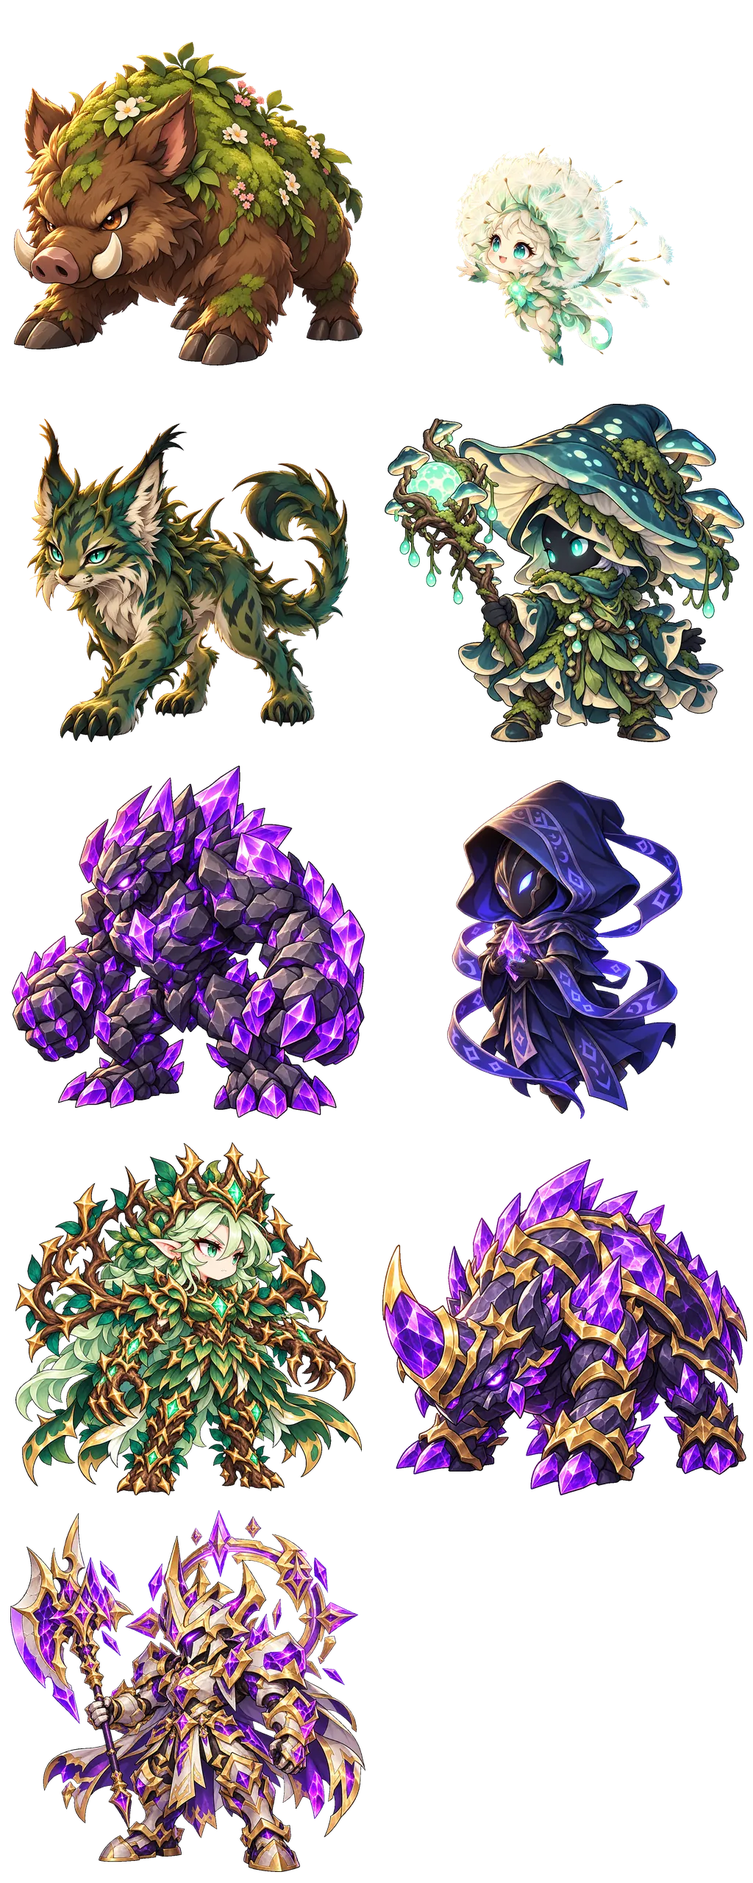
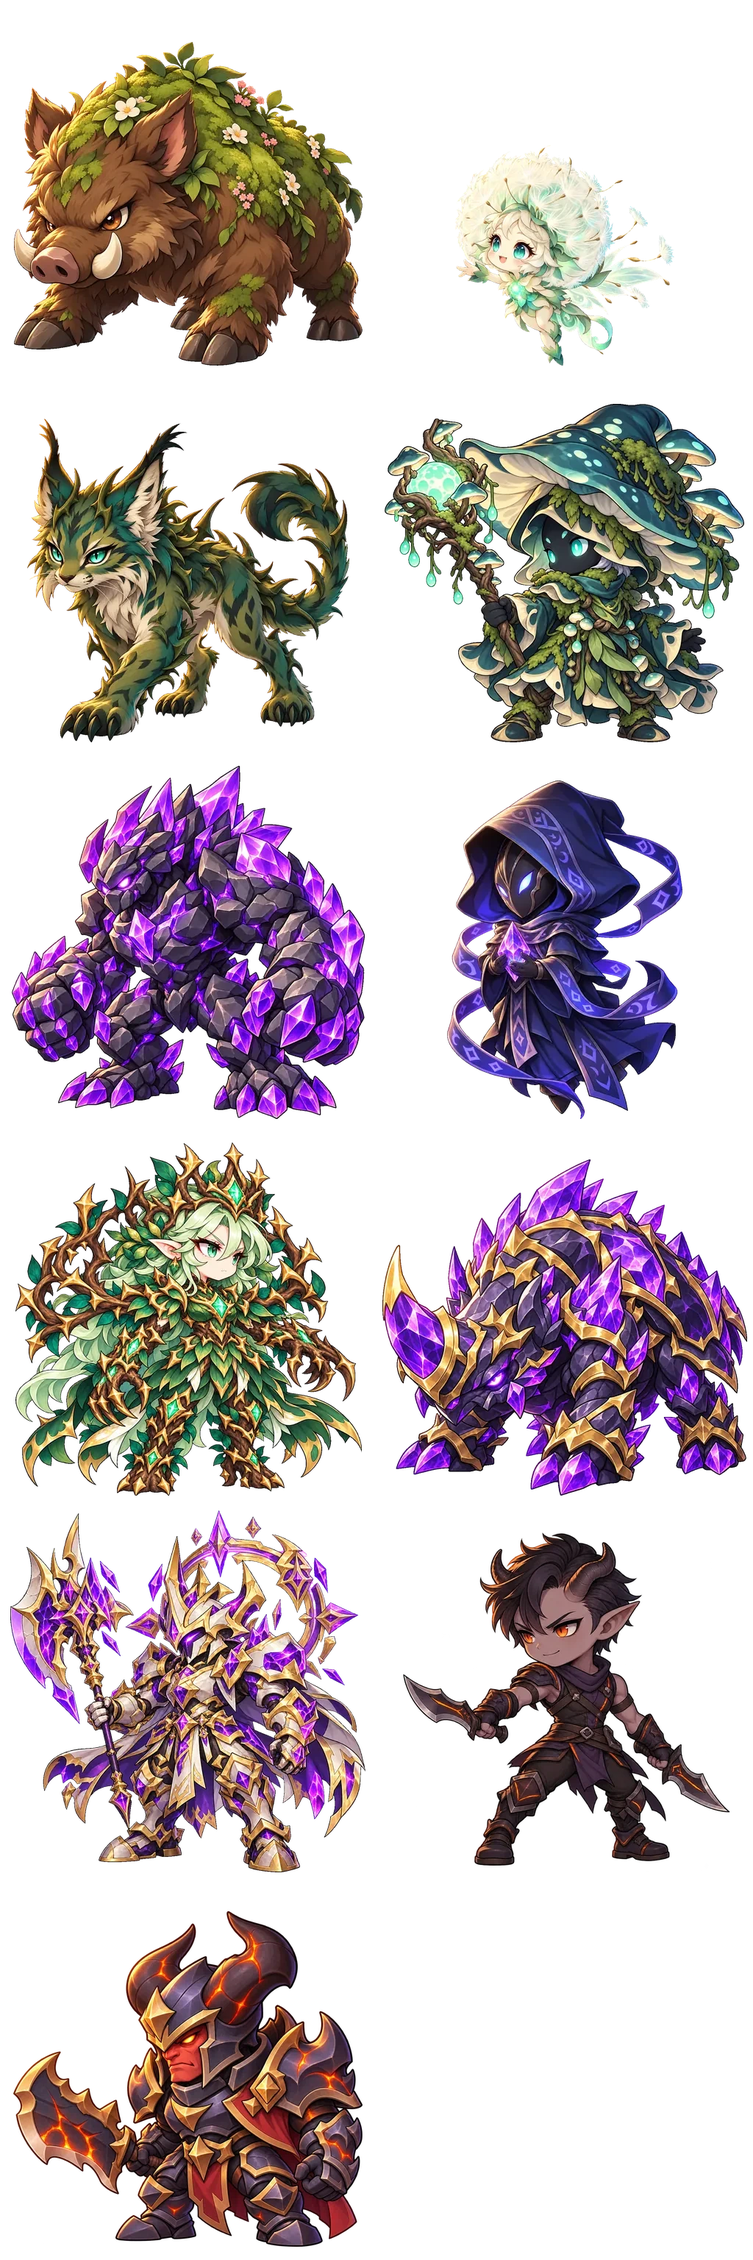
Map-1 boss art in battle; Codex art queue 13-19 (owner approved)
ART-CHAR-BOSS-RUINS-001: the Vargoth Hunter and Vanguard Captain frames
join the foes atlases as frames 9 and 10 (6 rows now) and the first-clash
and vanguard-captain foes use them instead of the fallback frames.
Presentation only; no rule or encounter-version change.

The art queue gains copy-ready Codex prompts for every remaining gap the
owner approved: eight new foes for 4v4 battles (incl. the two still
without art), map 2/3 battle backdrops, a painted Attack icon, the forest
tile set, chapter-1 boss and pet production frames from the approved
concepts, and Execute/Ward FX after the Bolt review.

Claude-Session: https://claude.ai/code/session_01HWZpmTxjpZcrXb3B6ixFxR

diff --git a/src/game/visuals/assets.ts b/src/game/visuals/assets.ts
@@ -2,10 +2,10 @@ import type { EncounterDefinition } from '../../core/battle/types';
 
 // Each actor's full-body frame and portrait live in a 2-column atlas of 512 px cells:
 // the original cast in `units`/`portraits` (3 rows), mercenaries in `units_mercs`/`portraits_mercs`
-// (3 rows) and the Veil Frontier foes in `units_foes`/`portraits_foes` (5 rows), all from
-// ART-CHAR-MERC-ENEMY-001 except the original cast. Unit and portrait atlases share frame order.
+// (3 rows) and the Veil Frontier foes in `units_foes`/`portraits_foes` (6 rows), all from
+// ART-CHAR-MERC-ENEMY-001 except the original cast; foes frames 9–10 are the map-1 boss pair (ART-CHAR-BOSS-RUINS-001). Unit and portrait atlases share frame order.
 export type ArtSheet = 'units' | 'mercs' | 'foes';
-export const sheetRows: Readonly<Record<ArtSheet, number>> = { units: 3, mercs: 3, foes: 5 };
+export const sheetRows: Readonly<Record<ArtSheet, number>> = { units: 3, mercs: 3, foes: 6 };
 export const actorArt: Readonly<Record<string, { sheet: ArtSheet; frame: number }>> = {
   guardian: { sheet: 'units', frame: 0 }, tracer: { sheet: 'units', frame: 1 }, weaver: { sheet: 'units', frame: 2 },
   healer: { sheet: 'units', frame: 3 }, raider: { sheet: 'units', frame: 4 }, brute: { sheet: 'units', frame: 5 },
@@ -14,6 +14,7 @@ export const actorArt: Readonly<Record<string, { sheet: ArtSheet; frame: number 
   foe_tusker: { sheet: 'foes', frame: 0 }, foe_sprite: { sheet: 'foes', frame: 1 }, foe_stalker: { sheet: 'foes', frame: 2 },
   foe_mycon: { sheet: 'foes', frame: 3 }, foe_golem: { sheet: 'foes', frame: 4 }, foe_riftweaver: { sheet: 'foes', frame: 5 },
   foe_matriarch: { sheet: 'foes', frame: 6 }, foe_juggernaut: { sheet: 'foes', frame: 7 }, foe_sentinel: { sheet: 'foes', frame: 8 },
+  foe_hunter: { sheet: 'foes', frame: 9 }, foe_captain: { sheet: 'foes', frame: 10 },
 };
 // Enemy ids are field positions (`raider` back, `brute` front/large); `art` picks the illustration.
 // Frames drawn facing the wrong way for their side (party faces right, enemies face left, ART-PLACEMENT-RULES):

diff --git a/src/content/encounters/catalog.ts b/src/content/encounters/catalog.ts
@@ -42,7 +42,7 @@ export const firstClash: EncounterDefinition = {
   // The prologue fight: Vargoth's vanguard attacks the ruined frontier fort as the commander wakes (lore 2026-10-16).
   ...veilSiege, id: 'first-clash', version: 12, level: 1, name: 'กองหน้าของวาร์กอธ',
   enemies: [
-    { id: 'raider', speed: 110, name: 'Vargoth Hunter', displayName: 'นักล่าเผ่าอสูร', maxHp: 56, color: 0xee80bd },
+    { id: 'raider', speed: 110, name: 'Vargoth Hunter', displayName: 'นักล่าเผ่าอสูร', maxHp: 56, color: 0xee80bd, art: 'foe_hunter' },
     { id: 'brute', speed: 70, name: 'Vargoth Guard', displayName: 'องครักษ์อสูร', maxHp: 100, color: 0x9785f2 },
   ],
   intents: [
@@ -177,8 +177,8 @@ export const miniVeilGolem: EncounterDefinition = {
 export const vanguardCaptain: EncounterDefinition = {
   ...veilSiege, id: 'vanguard-captain', version: 1, level: 3, name: 'หัวหน้ากองหน้าของวาร์กอธ',
   enemies: [
-    { id: 'raider', speed: 110, name: 'Vargoth Hunter', displayName: 'นักล่าเผ่าอสูร', maxHp: 60, color: 0xee80bd },
-    { id: 'brute', speed: 70, name: 'Vanguard Captain', displayName: 'หัวหน้ากองหน้า', maxHp: 170, color: 0x9785f2 },
+    { id: 'raider', speed: 110, name: 'Vargoth Hunter', displayName: 'นักล่าเผ่าอสูร', maxHp: 60, color: 0xee80bd, art: 'foe_hunter' },
+    { id: 'brute', speed: 70, name: 'Vanguard Captain', displayName: 'หัวหน้ากองหน้า', maxHp: 170, color: 0x9785f2, art: 'foe_captain' },
   ],
   intents: [
     { sourceId: 'raider', targetSlot: 2, name: 'Raking Slash', damage: 11, kind: 'physical' },

diff --git a/docs/handoffs/CODEX-ART-QUEUE-TH.md b/docs/handoffs/CODEX-ART-QUEUE-TH.md
@@ -8,16 +8,23 @@
 | 2 | ART-VFX-BOLT-001 ภาพชั้นเอฟเฟกต์ Bolt | A8 FX | ได้รับ 2026-10-22 ยังไม่ใส่ในเกม (รอเจ้าของดูคลิป Bolt) |
 | 3 | ART-SKILL-ICON-001 ไอคอนสกิลแบบวาด 30 สกิล | A6 ต้นไม้, A7 | รอบแก้ 3R ได้รับและเจ้าของอนุมัติ 2026-10-22 ใช้ในเกมแล้ว |
 | 4 | ART-UI-ICONS-002 ไอคอนค่าสถานะและแท็บ | A7 | ได้รับแล้วและใช้ในเกมแล้ว 2026-10-22 |
-| 5 | ART-CHAR-BOSS-RUINS-001 บอสแมพ 1 | A แมพ 1 | ได้รับ 2026-10-22 รอเจ้าของดู แล้วใส่ในเกม |
+| 5 | ART-CHAR-BOSS-RUINS-001 บอสแมพ 1 | A แมพ 1 | เจ้าของอนุมัติ ใส่ในเกมแล้ว 2026-10-22 |
 | 6 | ART-UI-PROGRESS-001 ไอคอนตำรา แก่นรอยแยก เศษดาว เหรียญเกียรติยศ กรอบดาวชะตา | A6, B | ได้รับ 2026-10-22 รอระบบตำรา/ดาวชะตา |
-| 7 | ART-WORLD-KEYART-001 ภาพหลักแผนที่ 2 และ 4–10 (concept) | A5, B, C | ได้รับ 2026-10-22 concept รอเจ้าของเลือก |
-| 8 | ART-CHAR-BOSS-CH1-001 concept บอสบทที่ 1 | B, C | ได้รับ 2026-10-22 concept รอเจ้าของเลือก |
-| 9 | ART-PET-001 concept สัตว์เลี้ยง 6 ชนิด | B | ได้รับ 2026-10-22 concept รอเจ้าของเลือก |
+| 7 | ART-WORLD-KEYART-001 ภาพหลักแผนที่ 2 และ 4–10 (concept) | A5, B, C | concept อนุมัติ 2026-10-22 → ทำต่อข้อ 14, 16 |
+| 8 | ART-CHAR-BOSS-CH1-001 concept บอสบทที่ 1 | B, C | concept อนุมัติ 2026-10-22 → ภาพจริงข้อ 17 |
+| 9 | ART-PET-001 concept สัตว์เลี้ยง 6 ชนิด | B | concept อนุมัติ 2026-10-22 → ภาพจริงข้อ 18 |
 | 10 | ART-UI-RUNE-001 ไอคอนรูน 12 แบบ | B | ยังไม่ได้รับ |
 | 11 | ART-CHAR-RIVAL-001 ผู้บัญชาการคู่แข่งลานประลอง 6 คน | B PvP | ยังไม่ได้รับ |
 | 12 | ART-WORLD-TOWER-001 หอคอยแห่งชะตา (ฉากต่อสู้ + ไอคอนชั้น) | C | ยังไม่ได้รับ (เริ่มได้แล้ว ข้อ 1 เสร็จ) |
+| 13 | ART-CHAR-FOES-002 ศัตรูชุดใหม่ 8 ตัวสำหรับศึก 4 ต่อ 4 (รวมองครักษ์อสูร อสูรส่งพลัง) | A7 ขั้นที่ 2 | ทันที (เจ้าของอนุมัติ 2026-10-22) |
+| 14 | ART-WORLD-BATTLE-BG-001 ฉากหลังศึกแมพ 2 ป่าทึบ และแมพ 3 แนวรอยแยก | A | ทันที |
+| 15 | ART-SKILL-ICON-002 ไอคอนวาด "โจมตี" | A7 | ทันที |
+| 16 | ART-WORLD-TILES-002 ชุดช่องแผนที่ป่าทึบ (แมพ 2) จาก concept ที่อนุมัติ | A | ทันที |
+| 17 | ART-CHAR-BOSS-CH1-002 ภาพจริงบอสแมพ 4–10 + วาร์กอธ 2 ร่าง จาก concept ที่อนุมัติ | B, C | ทันที |
+| 18 | ART-PET-002 ภาพจริงสัตว์เลี้ยง 6 ตัว จาก concept ที่อนุมัติ | B | ทันที |
+| 19 | ART-VFX-EXEC-WARD-001 ภาพชั้นเอฟเฟกต์ Execute และ Ward | A8 | หลังเจ้าของตรวจคลิป Bolt |
 
-**งานภาพที่เกมยังขาดแต่ยังไม่มี prompt ในคิว (ตรวจ 2026-10-22):**
+**งานภาพที่เกมยังขาด (ตรวจ 2026-10-22) — เจ้าของอนุมัติให้สั่งทั้งหมด ได้เป็นข้อ 13–19 แล้ว:**
 - ศัตรูที่ยังไม่มีภาพ (ตอนนี้ใช้ภาพสำรอง): องครักษ์อสูร (ศึกแรก), อสูรส่งพลัง (ศึกเงาล่าแนวหลัง)
 - ฉากหลังศึกต่อแมพ: ตอนนี้ทุกแมพใช้ฉากซากปรักหักพังภาพเดียว (ต้องมีป่าทึบ แนวรอยแยก และแมพถัดไป)
 - ศัตรูชุดใหม่สำหรับศึก 4 ต่อ 4 (A7 ขั้นที่ 2) ให้แต่ละแมพมีศัตรูหลากหลายขึ้น
@@ -419,4 +426,152 @@ DELIVERABLES: tower_backdrop.webp (same size and composition rules as ruins.webp
 CONSTRAINTS: original design; the backdrop must not reduce readability of units, HP bars and intents; no text.
 
 RETURN: incoming/ART-WORLD-TOWER-001/
+```
+
+## 13. ART-CHAR-FOES-002 — ศัตรูชุดใหม่สำหรับศึก 4 ต่อ 4
+
+```text
+CODEX HANDOFF — ART-CHAR-FOES-002
+Asterveil · Fateweave: eight new foes for 4-vs-4 battles
+
+Battles are becoming up to 4 heroes vs up to 4 foes (front 2 / back 2, 1–4 foes per encounter). Each map needs more small foes so groups of 3–4 read as different creatures. Two existing foes also have no art yet.
+
+Repository wnau34-nptrn/asterveil-fateweave, base branch feature/fateweave-initial-prototype. Create branch art/art-char-foes-002. Add files only under incoming/ART-CHAR-FOES-002/. Do not change src/, tests/, public/, .github/ or existing art. Open a PR into the base branch; do not merge. Original artwork only; nothing from Asterveil: Rise Beyond. Never use the word ม่านเวล.
+
+READ FIRST: docs/handoffs/ART-PLACEMENT-RULES.md (enemies face LEFT; soles anchored; large foes shown ~1.5x), docs/handoffs/ART-CHAR-MERC-ENEMY-001.md (exact atlas/portrait format and style), public/assets/art/units_foes.webp + portraits_foes.webp (style, scale, line weight), incoming/ART-CHAR-BOSS-RUINS-001/ (latest accepted foes).
+
+FOES (physical-looking foes use physical moves, energy-looking foes energy moves; keep that readable)
+Map 1 ซากชายแดน (ruined frontier fort, Vargoth's demon tribe: violet-black armour, ember-orange cracks):
+ 1. vargoth_guard — องครักษ์อสูร, LARGE front: tower shield + spiked mace, heavy armour (physical).
+ 2. vargoth_shaman — หมอผีเผ่าอสูร, normal back: bone staff, ember flame orb (energy).
+ 3. vargoth_grunt — พลทหารอสูร, normal front: short spear, light armour (physical).
+Map 2 เส้นทางป่าทึบ (forest twisted by the rift: moss, thorns, teal fungus):
+ 4. thorn_beetle — ด้วงหนาม, normal front: armoured beetle with thorn shell (physical).
+ 5. spore_puff — ภูตสปอร์, normal back: floating puffball with teal spores (energy).
+Map 3 แนวรอยแยก (crystal rift scar: violet crystal, star-veil light):
+ 6. rift_channeler — อสูรส่งพลัง, LARGE front: hulking demon with crystal conduits on its back (energy).
+ 7. rift_wisp — วิญญาณรอยแยก, normal back: small violet flame spirit (energy).
+ 8. shard_crawler — แมงมุมเศษผลึก, normal front: crystal-legged crawler (physical).
+
+DELIVERABLES (same format as ART-CHAR-MERC-ENEMY-001): units_foes2.webp (2 columns × 4 rows of 512×512 frames, order as listed, facing LEFT, soles at y=496, transparent) + units_foes2.json (x,y,w,h,footY); portraits_foes2.webp + json (same order, square busts); preview.png: a 390×844 phone composition on public/assets/art/ruins.webp with 4 heroes vs 4 of the new foes (two front, two back, large ones ~1.5x); NOTES.md with per-foe silhouette notes.
+
+CONSTRAINTS: same chibi proportions, outline weight, lighting and saturation as units_foes.webp; no text, no baked shadow; each foe distinct in silhouette at 64 px.
+
+RETURN: incoming/ART-CHAR-FOES-002/
+```
+
+## 14. ART-WORLD-BATTLE-BG-001 — ฉากหลังศึกแยกตามแมพ
+
+```text
+CODEX HANDOFF — ART-WORLD-BATTLE-BG-001
+Asterveil · Fateweave: battle backdrops for map 2 and map 3
+
+Every battle uses one backdrop today (public/assets/art/ruins.webp, 1536×1024). Map 2 เส้นทางป่าทึบ (forest trail twisted by the rift) and map 3 แนวรอยแยก (crystal rift scar) need their own.
+
+Repository wnau34-nptrn/asterveil-fateweave, base branch feature/fateweave-initial-prototype. Create branch art/art-world-battle-bg-001. Add files only under incoming/ART-WORLD-BATTLE-BG-001/. Do not change src/, tests/, public/, .github/ or existing art. Open a PR into the base branch; do not merge. Original artwork only; nothing from Asterveil: Rise Beyond. Never use the word ม่านเวล.
+
+READ FIRST: public/assets/art/ruins.webp (format, camera, horizon height, empty floor area), src/game/visuals/rift-backdrop.ts (how the image is framed around the battle field), incoming/ART-WORLD-KEYART-001/ on art/art-world-keyart-001 (approved palettes; keyart_2 is the forest direction), docs/handoffs/ART-PLACEMENT-RULES.md.
+
+DESIGN: same camera, horizon line and open stone/earth floor band as ruins.webp so 8 actors (4 heroes left, 4 foes right) stand on clear ground with no props behind feet; background interest stays above the horizon and at the edges. Forest: mossy roots, thorn arches, teal fungus light, rift glow far behind. Rift line: violet crystal spires, star-veil sky, cracked glowing floor seams kept dim under actors.
+
+DELIVERABLES: bg_forest.webp, bg_riftline.webp (1536×1024, opaque), preview_<id>.png at 390×844 and 1366×768 with placeholder actor silhouettes, NOTES.md.
+
+CONSTRAINTS: no text/UI/characters baked in; keep floor contrast low enough for HP bars and target rings to read.
+
+RETURN: incoming/ART-WORLD-BATTLE-BG-001/
+```
+
+## 15. ART-SKILL-ICON-002 — ไอคอนวาด "โจมตี"
+
+```text
+CODEX HANDOFF — ART-SKILL-ICON-002
+Asterveil · Fateweave: painted Attack icon
+
+All 33 skills now use the painted icons of ART-SKILL-ICON-001-R1; the shared Attack action is the only line icon left in the battle dock.
+
+Repository wnau34-nptrn/asterveil-fateweave, base branch feature/fateweave-initial-prototype. Create branch art/art-skill-icon-002. Add files only under incoming/ART-SKILL-ICON-002/. Do not change src/, tests/, public/, .github/ or existing art. Open a PR into the base branch; do not merge. Original artwork only; nothing from Asterveil: Rise Beyond. Never use the word ม่านเวล.
+
+READ FIRST: incoming/ART-SKILL-ICON-001-R1/ (style, outline, light, scale rules, preview layout).
+
+DESIGN: attack — one clean steel sword mid-slash with a short white-gold arc; neutral silver/gold so it fits every class row. Same 256×256 RGBA format, motif 190–205 px inside the centred 224 px circle, readable at 40 px normal and under a 61% black cooldown overlay.
+
+DELIVERABLES: png/attack.png, preview.png (40/56/72 px beside guard, mark, bolt, heal), NOTES.md with bounding box.
+
+RETURN: incoming/ART-SKILL-ICON-002/
+```
+
+## 16. ART-WORLD-TILES-002 — ชุดช่องแผนที่ป่าทึบ (แมพ 2)
+
+```text
+CODEX HANDOFF — ART-WORLD-TILES-002
+Asterveil · Fateweave: forest tile set for map 2 from the approved key art
+
+The owner approved the ART-WORLD-KEYART-001 directions. Map 2 เส้นทางป่าทึบ is in the game now but reuses the meadow/thicket tiles.
+
+Repository wnau34-nptrn/asterveil-fateweave, base branch feature/fateweave-initial-prototype. Create branch art/art-world-tiles-002. Add files only under incoming/ART-WORLD-TILES-002/. Do not change src/, tests/, public/, .github/ or existing art. Open a PR into the base branch; do not merge. Original artwork only; nothing from Asterveil: Rise Beyond. Never use the word ม่านเวล.
+
+READ FIRST: docs/handoffs/ART-UI-WORLD-001.md (tile rules), public/assets/world/tileset.webp + src/content/world/tileset.json (128 px tiles: 4 floor variants per zone, camp ground, wall_top/face/inner), public/assets/world/decor.webp + src/content/world/decor.json, incoming/ART-WORLD-KEYART-001/ (keyart_2, landmarks_2, tile_mood_2, palette_2).
+
+DELIVERABLES: tiles_forest.webp + json with forest_0–3 (trail floor), grove_0–3 (deeper floor), forest wall_top/wall_face/wall_inner, all 128×128 seamless; decor_forest.webp + json with 8 transparent props (roots, thorn arch, teal fungus, fallen log, lantern moss, rift-touched stump, fern clump, stone marker); preview.png: a 390×844 phone map composition at runtime scale; NOTES.md.
+
+CONSTRAINTS: same top-down 3/4 camera and lighting as the current tileset; floors lighter than walls so walkable tiles read at a glance; seamless edges.
+
+RETURN: incoming/ART-WORLD-TILES-002/
+```
+
+## 17. ART-CHAR-BOSS-CH1-002 — ภาพจริงบอสบทที่ 1
+
+```text
+CODEX HANDOFF — ART-CHAR-BOSS-CH1-002
+Asterveil · Fateweave: production frames for the approved chapter-1 bosses
+
+The owner approved all ART-CHAR-BOSS-CH1-001 concepts (maps 4–9, Vargoth armoured, Vargoth unleashed).
+
+Repository wnau34-nptrn/asterveil-fateweave, base branch feature/fateweave-initial-prototype. Create branch art/art-char-boss-ch1-002. Add files only under incoming/ART-CHAR-BOSS-CH1-002/. Do not change src/, tests/, public/, .github/ or existing art. Open a PR into the base branch; do not merge. Original artwork only; nothing from Asterveil: Rise Beyond. Never use the word ม่านเวล.
+
+READ FIRST: incoming/ART-CHAR-BOSS-CH1-001/ on art/art-char-boss-ch1-001 (designs to follow exactly), docs/handoffs/ART-CHAR-MERC-ENEMY-001.md (runtime format), docs/handoffs/ART-PLACEMENT-RULES.md (enemies face LEFT, large foes ~1.5x).
+
+DELIVERABLES: units_bosses_ch1.webp (2 columns × 4 rows of 512×512, order: lake_spirit, crystal_giant, swamp_witch, flame_general, ancient_guardian, fate_shadow, vargoth_armoured, vargoth_unleashed; facing LEFT, soles y=496) + json; portraits_bosses_ch1.webp + json (same order); preview.png on public/assets/art/ruins.webp at 390×844 with the Knight for scale; NOTES.md.
+
+CONSTRAINTS: keep each concept's silhouette and palette; same chibi proportions and outline as units_foes.webp; transparent, no text, no baked shadow.
+
+RETURN: incoming/ART-CHAR-BOSS-CH1-002/
+```
+
+## 18. ART-PET-002 — ภาพจริงสัตว์เลี้ยง
+
+```text
+CODEX HANDOFF — ART-PET-002
+Asterveil · Fateweave: production sprites for the approved pets
+
+The owner approved all six ART-PET-001 concepts. Pets follow the party on the tile map, sit in the camp and help in battle once every few rounds from beside the party (never in the turn queue).
+
+Repository wnau34-nptrn/asterveil-fateweave, base branch feature/fateweave-initial-prototype. Create branch art/art-pet-002. Add files only under incoming/ART-PET-002/. Do not change src/, tests/, public/, .github/ or existing art. Open a PR into the base branch; do not merge. Original artwork only; nothing from Asterveil: Rise Beyond. Never use the word ม่านเวล.
+
+READ FIRST: incoming/ART-PET-001/ on art/art-pet-001 (designs and scale_preview), docs/handoffs/ART-PLACEMENT-RULES.md (party side faces RIGHT), public/assets/art/units.webp (style).
+
+DELIVERABLES: pets.webp: 6 rows (meadow_fox, thicket_piglet, rift_crystal_moth, fort_gargoyle_pup, forest_lantern_owl, gate_starveil_slime) × 4 columns of 256×256 frames: idle_a, idle_b, assist (the helping pose), happy; facing RIGHT, soles at y=240, transparent; pets.json (x,y,w,h,footY); pet_portraits.webp (6 square busts) + json; preview.png showing battle (beside a 100 px Knight), map (128 px tile) and camp sizes; NOTES.md.
+
+CONSTRAINTS: keep each concept's silhouette and palette; readable at 44 px; no text or baked shadow.
+
+RETURN: incoming/ART-PET-002/
+```
+
+## 19. ART-VFX-EXEC-WARD-001 — เอฟเฟกต์ Execute และ Ward (เริ่มหลังเจ้าของตรวจคลิป Bolt)
+
+```text
+CODEX HANDOFF — ART-VFX-EXEC-WARD-001
+Asterveil · Fateweave: effect layers for Execute (Rose-Gold Edge) and Ward (Luminous Aegis)
+
+Start only after the owner has reviewed the Bolt clips (docs/combat-presentation/bolt-slice/) and any Bolt changes are applied; follow that feedback.
+
+Repository wnau34-nptrn/asterveil-fateweave, base branch feature/fateweave-initial-prototype. Create branch art/art-vfx-exec-ward-001. Add files only under incoming/ART-VFX-EXEC-WARD-001/. Do not change src/, tests/, public/, .github/ or existing art. Open a PR into the base branch; do not merge. Original artwork only; nothing from Asterveil: Rise Beyond. Never use the word ม่านเวล.
+
+READ FIRST: docs/combat-presentation/vfx-art-direction/README_TH.md and the Execute/Ward v1 storyboards, incoming/ART-VFX-BOLT-001/ on art/art-vfx-bolt-001 (exact atlas/json/pivot/blend format and NOTES table to repeat), src/game/visuals/bolt-fx.ts (how layers are timed).
+
+DELIVERABLES per effect (execute_fx.*, ward_fx.*): Phaser JSON-hash atlas webp + json with the same layer conventions (cast, travel or form, impact/settle, dissolve), preview_dark.png and preview_light.png at 390×844, NOTES.md with the layer/timing table.
+
+CONSTRAINTS: effects only (no characters, UI or text); readable at phone scale; reduced-motion uses the static impact frame.
+
+RETURN: incoming/ART-VFX-EXEC-WARD-001/
 ```

diff --git a/docs/handoffs/CODEX-TO-CLAUDE.md b/docs/handoffs/CODEX-TO-CLAUDE.md
@@ -1,5 +1,10 @@
 # Codex → Claude handoff
 
+## 2026-10-22 — Claude: map-1 boss art in, Codex queue 13–19 written (owner approved all)
+
+- ART-CHAR-BOSS-RUINS-001 merged; the hunter and captain are appended to the foes atlases as frames 9 and 10 (`units_foes`/`portraits_foes` now 6 rows, `sheetRows.foes = 6`), art keys `foe_hunter`/`foe_captain` on first-clash and vanguard-captain. Presentation only, no encounter version bump.
+- Owner approved the boss/pet/key-art concepts and every recommended art job: `docs/handoffs/CODEX-ART-QUEUE-TH.md` items 13–19 (new 4v4 foes incl. Vargoth Guard and Rift Channeler, map 2/3 battle backdrops, painted Attack icon, forest tiles, chapter-1 boss frames, pet sprites, Execute/Ward FX after the Bolt review). PR #38 (round-1 icons) closed as superseded.
+
 ## 2026-10-22 — Claude: ART-SKILL-ICON-001-R1 integrated (owner approved)
 
 - Owner approved the R1 painted skill icons. Merged `art/art-skill-icon-001-r1`; the 33 PNGs are downscaled to 128 px cells in `public/assets/ui/skill_icons.webp` (6×6, order in `src/game/visuals/skill_icons.json`, same order as the incoming atlas).
